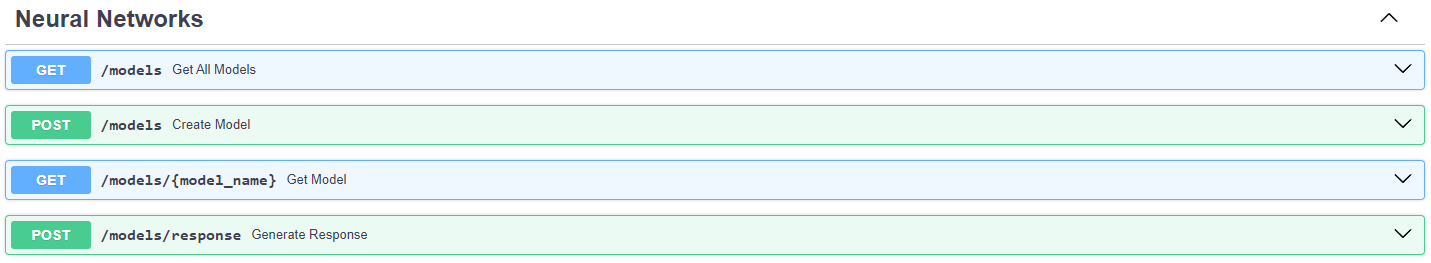
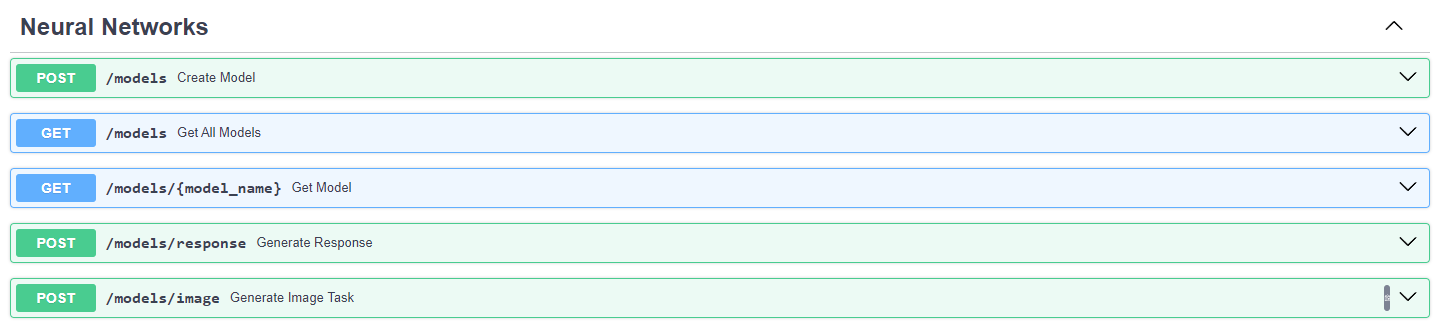
changes in README

Changed region(s): [[0.0, 0.1521, 1.0, 0.9734], [0.0, 0.0304, 0.1537, 0.1217], [0.9532, 0.0608, 0.9839, 0.0913]]

diff --git a/api/src/presentation/routers/neural_network.py b/api/src/presentation/routers/neural_network.py
@@ -1,5 +1,8 @@
 from typing import Annotated
 
+from dishka.integrations.fastapi import DishkaRoute, FromDishka
+from fastapi import APIRouter, Depends
+
 from application.contracts.neural_networks.create_neural_network_request import (
     CreateNeuralNetworkRequest,
 )
@@ -8,10 +11,8 @@ from application.contracts.neural_networks.generate_response_request import (
 )
 from application.usecases.neural_networks import *
 from application.usecases.users.update_user import CheckUserSubscription
-from dishka.integrations.fastapi import DishkaRoute, FromDishka
 from domain.common.response import ModelResponse
 from domain.neural_networks.model import Model
-from fastapi import APIRouter, Depends
 from infrastructure.tasks.tasks import generate_image_task
 
 model_router = APIRouter(

diff --git a/README.md b/README.md
@@ -2,12 +2,11 @@
 API + TG Bot to access to AI models
 
 ## Project features
-* User subscriptions
+* Subscription system
 * Clean Architecture
-* RabbitMQ as a message broker for microservices
+* RabbitMQ as a tasks queue
 * Text generation
 * Image generation
-* Periodic verification of expired subscriptions using pg_cron
 
 ## How to run
 1. Set RabbitMQ environment variables `./.env`
@@ -35,6 +34,9 @@ API + TG Bot to access to AI models
     CLIENT_SECRET_SBER=
 
     API_KEY_CHATGPT=
+
+    BOT_TOKEN=
+    BROKER_URL=
     ```
     Set Bot environment variables `./tgbot/.env`
     ```
